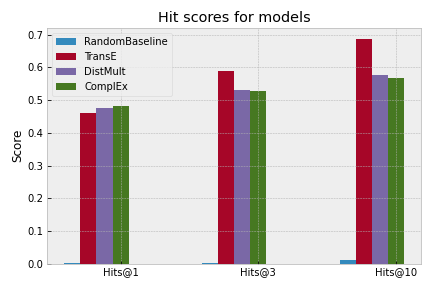
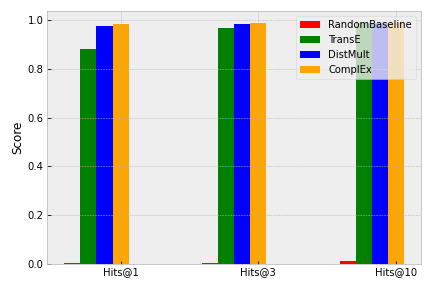
Model selection results

diff --git a/chapter/methodology.tex b/chapter/methodology.tex
@@ -65,7 +65,7 @@ The library AmpliGraph was used for the KG embedding models. AmpliGraph is an op
 
 Each embedding model has a number of hyperparameters that could be optimised. As the search space grows it has been shown that random search is more optimal than grid search, where each combination needs to be tested \cite{bergstra2012random}. Due to limited computational resources, this approach to hyperparameter optimisation was selected. It is not an optimal approach, but serves as a practical and effective solution that measures well against more sophisticated methods such as Baysian optimisation \cite{li2017hyperband}.
 
-\begin{table}[]
+\begin{table}[h]
 \centering
 \begin{tabular}{|l|l|}
 \hline
@@ -86,44 +86,65 @@ The AmpliGraph documentation was a main inspiration when deciding which hyperpar
 
 For the implementation of model selection AmpliGraph's \texttt{select\_best\_mode\_ranking} was used. It is a model selection routine that allows for both grid and random search. At the end of each model selection process, the final model for each embedding type is retrained on the concatenation of the train and validation set, before it is eventually evaluated on the test set. As the training data only contains positive examples, negative ones are generated. The \texttt{eta} hyperparameter denotes the number of negative examples generates at training for each positive example. In the training process corrupted triples are generated according to the strategy proposed by Bordes et al, which maintains the local closed world assumption \cite{TransE}.
 
+
 \subsection{Model selection results}
+The final model of all three embedding architectures had good results on the WN18RR dataset, and even better results on the family KG. Each model had an MRR score above 0.9 on the family KG and around 0.6 on the WN18RR. TransE seemed to perform slightly worse than DisMult and ComplEx on the family KG. On the WN18RR dataset TransE performed slighly worse at hits@1, while it outperformed both DistMult and ComplEx in both hist@3 and hits@10.
+
+
 % Please add the following required packages to your document preamble:
 % \usepackage{multirow}
 % \usepackage[normalem]{ulem}
 % \useunder{\uline}{\ul}{}
-\begin{table}[]
+\begin{table}[h]
 \centering
 \begin{tabular}{|l||ccccc||ccccc|}
 \hline
 {\textbf{DATASET}}                 & \multicolumn{5}{c||}{\textbf{WN18RR}}                                                                                                                                               & \multicolumn{5}{c|}{\textbf{Family KG}}                                                                                                                            \\ \hline
 \multirow{2}{*}{{\textbf{METRIC}}} & \multicolumn{1}{c|}{\multirow{2}{*}{\textbf{MR}}} & \multicolumn{1}{c|}{\multirow{2}{*}{\textbf{MRR}}} & \multicolumn{3}{c||}{\textbf{Hits@}}                                       & \multicolumn{1}{c|}{\multirow{2}{*}{\textbf{MR}}} & \multicolumn{1}{c|}{\multirow{2}{*}{\textbf{MRR}}} & \multicolumn{3}{c|}{\textbf{Hits@}}                                       \\ \cline{4-6} \cline{9-11} 
                                        & \multicolumn{1}{c|}{}                             & \multicolumn{1}{c|}{}                              & \multicolumn{1}{l|}{\textbf{1}} & \multicolumn{1}{l|}{\textbf{3}} & \multicolumn{1}{l||}{\textbf{10}} & \multicolumn{1}{c|}{}                             & \multicolumn{1}{c|}{}                              & \multicolumn{1}{l|}{\textbf{1}} & \multicolumn{1}{l|}{\textbf{3}} & \multicolumn{1}{l|}{\textbf{10}} \\ \hline
-\textbf{Baseline}                      & 1                                                 & 1                                                  & 1                      & 1                      & 1                       & 1                                                 & 1                                                  & 1                      & 1                      & 1                       \\ 
-\textbf{TransE}                        & 1                                                  & 1                                                  & 1                      & 1                      & 1                       & 1                                                 & 1                                                  & 1                      & 1                      & 1                       \\ 
-\textbf{DistMult}                      & 1                                                 & 1                                                  & 1                      & 1                      & 1                       & 1                                                 & 1                                                  & 1                      & 1                      & 1                       \\ 
-\textbf{ComplEx}                       & 1                                                 & 1                                                  & 1                      & 1                      & 1                       & 1                                                 & 1                                                  & 1                      & 1                      & 1                       \\ \hline
+\textbf{Baseline}       & 495.32     & 0.007      & 0     & 0       & 0.01        & 498.72       & 0     & 0       & 0       & 0.1      \\ 
+\textbf{TransE}  & 34.29  & 0.60       & 0.51                     & 0.66    & 0.76 & 2.59     & 0.93  &0.88  & 0.97   & 0.99   \\ 
+\textbf{DistMult}      & 152.37  & 0.62    & 0.59   & 0.63      & 0.66   & 7.45    & 0.98     & 0.98    & 0.99   & 0.99    \\ 
+\textbf{ComplEx}        & 139.36    & 0.59      & 0.57      & 0.60      & 0.63      & 4.64     & 0.99     & 0.98     & 0.99      & 0.99  \\ \hline
 \end{tabular}
 \caption{Results of selected models evaluated on test set.}
 \end{table}
 
-\begin{figure}[htp]
-    \centering
-    \includegraphics[width=12cm]{figures/model_selection/family_scores_1.png}
-    \caption{KB prediction under incompleteness}
+
+\begin{figure}[h]
+\centering
+\begin{subfigure}{.5\textwidth}
+  \centering
+  \includegraphics[width=1\linewidth]{figures/model_selection/family_mrr.png}
+  \caption{MRR scores}
+  \label{fig:sub1}
+\end{subfigure}%
+\begin{subfigure}{.5\textwidth}
+  \centering
+  \includegraphics[width=1\linewidth]{figures/model_selection/family_hit_scores.png}
+  \caption{Hits@n scores}
+  \label{fig:sub2}
+\end{subfigure}
+\caption{KG embedding test performance results for Wikidata5M (family KG)}
+\label{fig:test}
 \end{figure}
 
-
-\begin{figure}[htp]
-    \centering
-    \includegraphics[width=12cm]{figures/model_selection/family_scores_0.png}
-    \caption{KB prediction under incompleteness}
-\end{figure}
-
-
-\begin{figure}[htp]
-    \centering
-    \includegraphics[width=12cm]{figures/model_selection/family_hit_scores.png}
-    \caption{KB prediction under incompleteness}
+\begin{figure}[h]
+\centering
+\begin{subfigure}{.5\textwidth}
+  \centering
+  \includegraphics[width=1\linewidth]{figures/model_selection/wn18rr_mrr.png}
+  \caption{MRR scores}
+  \label{fig:sub1}
+\end{subfigure}%
+\begin{subfigure}{.5\textwidth}
+  \centering
+  \includegraphics[width=1\linewidth]{figures/model_selection/wn18rr_hit_scores.png}
+  \caption{Hits@n scores}
+  \label{fig:sub2}
+\end{subfigure}
+\caption{KG embedding test performance results for WN18RR}
+\label{fig:test}
 \end{figure}
 
 
@@ -134,8 +155,6 @@ For the implementation of model selection AmpliGraph's \texttt{select\_best\_mod
 %k (int) – Embedding space dimensionality.
 
 %loss : pairwise loss, with a margin of 0.5 set via the loss_params kwarg.
-
-TODO: add results and write about them
 
 \newpage
 
@@ -165,7 +184,7 @@ As discussed in (TODO: add section) it is not easy to set a relative score to a 
 
 
 \section{Rule mining and evaluation}
-Rules are mined using the rule mining algorithm AMIE3 \cite{amie3}. The authors of AMIE3 have made an implementation of it available on \hyperlink{https://github.com/lajus/amie}{GitHub}. It is released as a executable jar file that takes a KG in TSV format as input and produces rules accompanied with various confidence scores. The jar file in release 3.0 was used for rule mining. It was run using the default settings used in the AMIE3 paper by Lajus et al\cite{amie3}. Since default settings change, the exact command used for rule mining was: \texttt{java -jar amie-milestone-intKB.jar -bias lazy -full -noHeuristics -ostd [TSV file]}. This was run in a directory where both the \texttt{amie-milestone-intKB.jar} and the TSV file are located.
+Rules are mined using the rule mining algorithm AMIE3 \cite{amie3}. The authors of AMIE3 have made an implementation of it available on \hyperlink{https://github.com/lajus/amie}{GitHub}. It is released as a executable jar file that takes a KG in TSV format as input and produces rules accompanied with various confidence scores. The jar file in release 3.0 was used for rule mining. It was run using the default settings used in the AMIE3 paper by Lajus et al\cite{amie3}. Since default settings change, the exact command used for rule mining was: \texttt{java -jar amie-milestone-intKB.jar -bias lazy -full -noHeuristics -ostd [TSV file]}. This was run in a directory where both the executable jar file and the TSV file are located.
 
 As previously mentioned, the implementation of AMIE3 outputs the rules accompanied with confidence scores. The problem is that the scores are calculated on the same dataset on which the rules have been mined on. Since these datasets have been extended they may contain datapoints that are false positives, leading to evaluation based on erroneous data. New rules that follow this incorrect data will therefore possibly receive high scores in spite of the fact that they do not make sense in the given context. To amend this problem all mined rules are also evaluated on the original KG. This was not previously available in any release of AMIE3, which only allows rule evaluation in combination with rule mining, on the dataset from which the rules are being mined. Evaluation of rules on a custom KG was not possible until one of the authors, Jonathan Lajus, was kind enough to add a script to do exactly this.
 

diff --git a/chapter/basic_definitions.tex b/chapter/basic_definitions.tex
@@ -55,11 +55,15 @@ In this thesis we will loosely follow the Resource Description Framework (RDF) s
 \end{figure}
 
 With this type of data organisation one can for example query for a list of all people who own cats in the dataset. 
-\subsection{Open versus closed world assumption}
+\subsection{Open versus Closed World Assumption}
+KGs contain only true facts. By the \textit{closed world assumption } (CWA) all facts not present in the KG are considered false. For example, by the KG in figure \ref{fig:KGexample} the statement \texttt{<Ann> <has sibling> <Bob>} is false under the CWA, as it is not present in the KG. Bob is not the sibling of Ann. The \textit{open world assumption} OWA makes no such claims and  the validity of triple not present in the KG is considered unknown. In the above example Bob is therefore neither considered a sibling of Ann nor not a sibling of Ann.
+
+In the context of KGs the OWA is often more justified, as most large interesting KGs are far from complete. For example, the KG Wikidata5M does not contain information the national bird of countries. This of course does not mean that the statement "The kiwi is the national bird of New Zealand" is any less true. The information has simply not been included in the KG. Another example is Freebase, the precursor to Wikidata, in which 71\% is people listed had the place-of-birth attribute missing. In section (TODO: add section) the local closed world assumption is described, another paradigm that is used when training knowledge graph embeddings.
+
 
 \section{Knowledge Graph Embeddings}
 Let a KG be defined as a set of triples $\mathcal{K}={<h, r, t>}$, where $h, r, t$ respectively denote the head entity, relation and tail entity. To simplify the explanation we let the dimension of entities \emph{and} relations in the embedding space to be $d$.
-Given $\mathcal{K}$ and $d$, a KG embedding seeks to represent all entities and relations in the continuous vector space of $d$ dimensions. These representations are meant to capture the semantic information in the graph. An embedding that manages this can then be used to evaluate the probability of new facts (link prediction) and identify false information in $\mathcal{K}$.
+Given $\mathcal{K}$ and $d$, a KG embedding seeks to represent all entities and relations in the continuous vector space of $d$ dimensions. These representations are meant to capture the semantic information in the graph. An embedding that manages this can then be used to evaluate the probability of new facts and identify false information in $\mathcal{K}$, two tasks respectively called \textit{link prediction} and \textit{triple classification}.
 
 
 
@@ -76,6 +80,8 @@ Let $\mathcal{K}$ be KG with triples of the form $<h, r, t>$ with $r\in \mathbb{
 \textbf{Metrics}
 
     Ranking triples
+    
+\subsection{Performance indicators}
 
     MR
 

diff --git a/report.tex b/report.tex
@@ -8,12 +8,13 @@
 \usepackage{multirow}
 \usepackage{generators/imports}
 \usepackage{hyperref} %for inserting hyperlinks
-%\hypersetup{
-%    colorlinks=true,
-%    linkcolor=blue,
-%    filecolor=magenta,      
-%    urlcolor=cyan,
-%}
+\hypersetup{
+    colorlinks=false,
+    linkcolor=blue,
+    filecolor=magenta,      
+    urlcolor=cyan,
+}
+\usepackage{subcaption}
 \usepackage{tikz}
 \usepackage{amsthm} % for proofs
 \usetikzlibrary{positioning}
